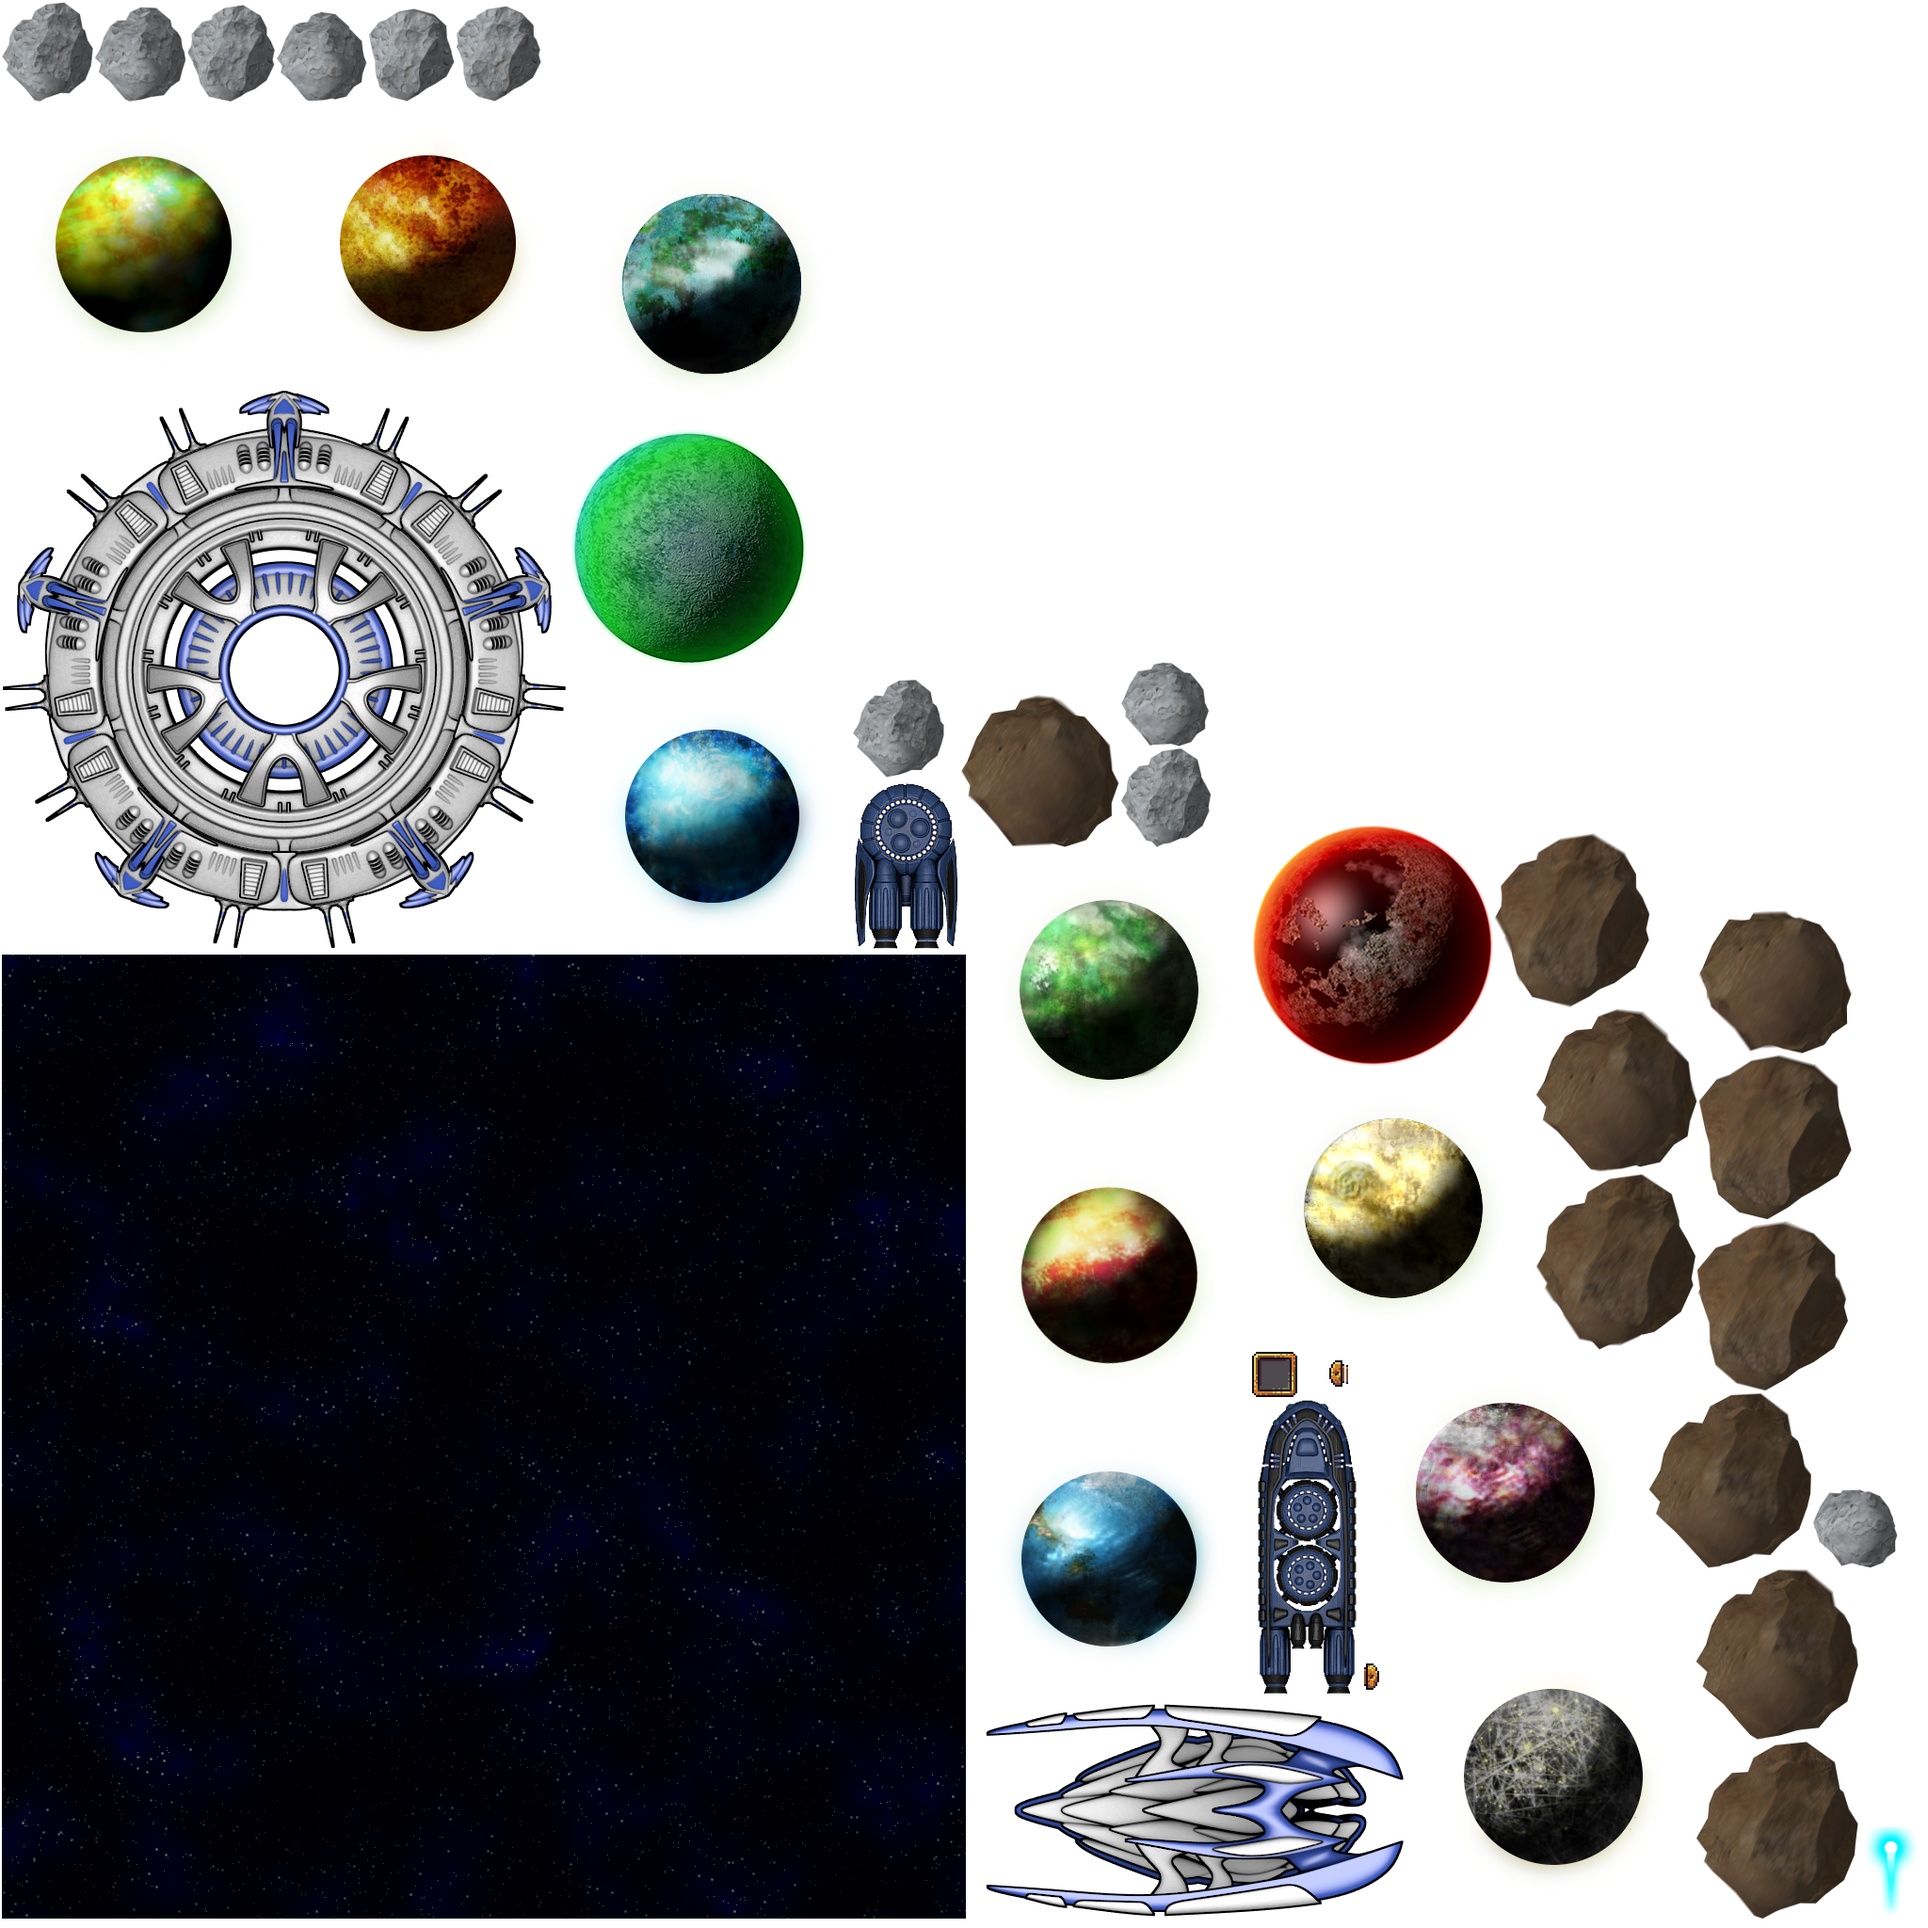
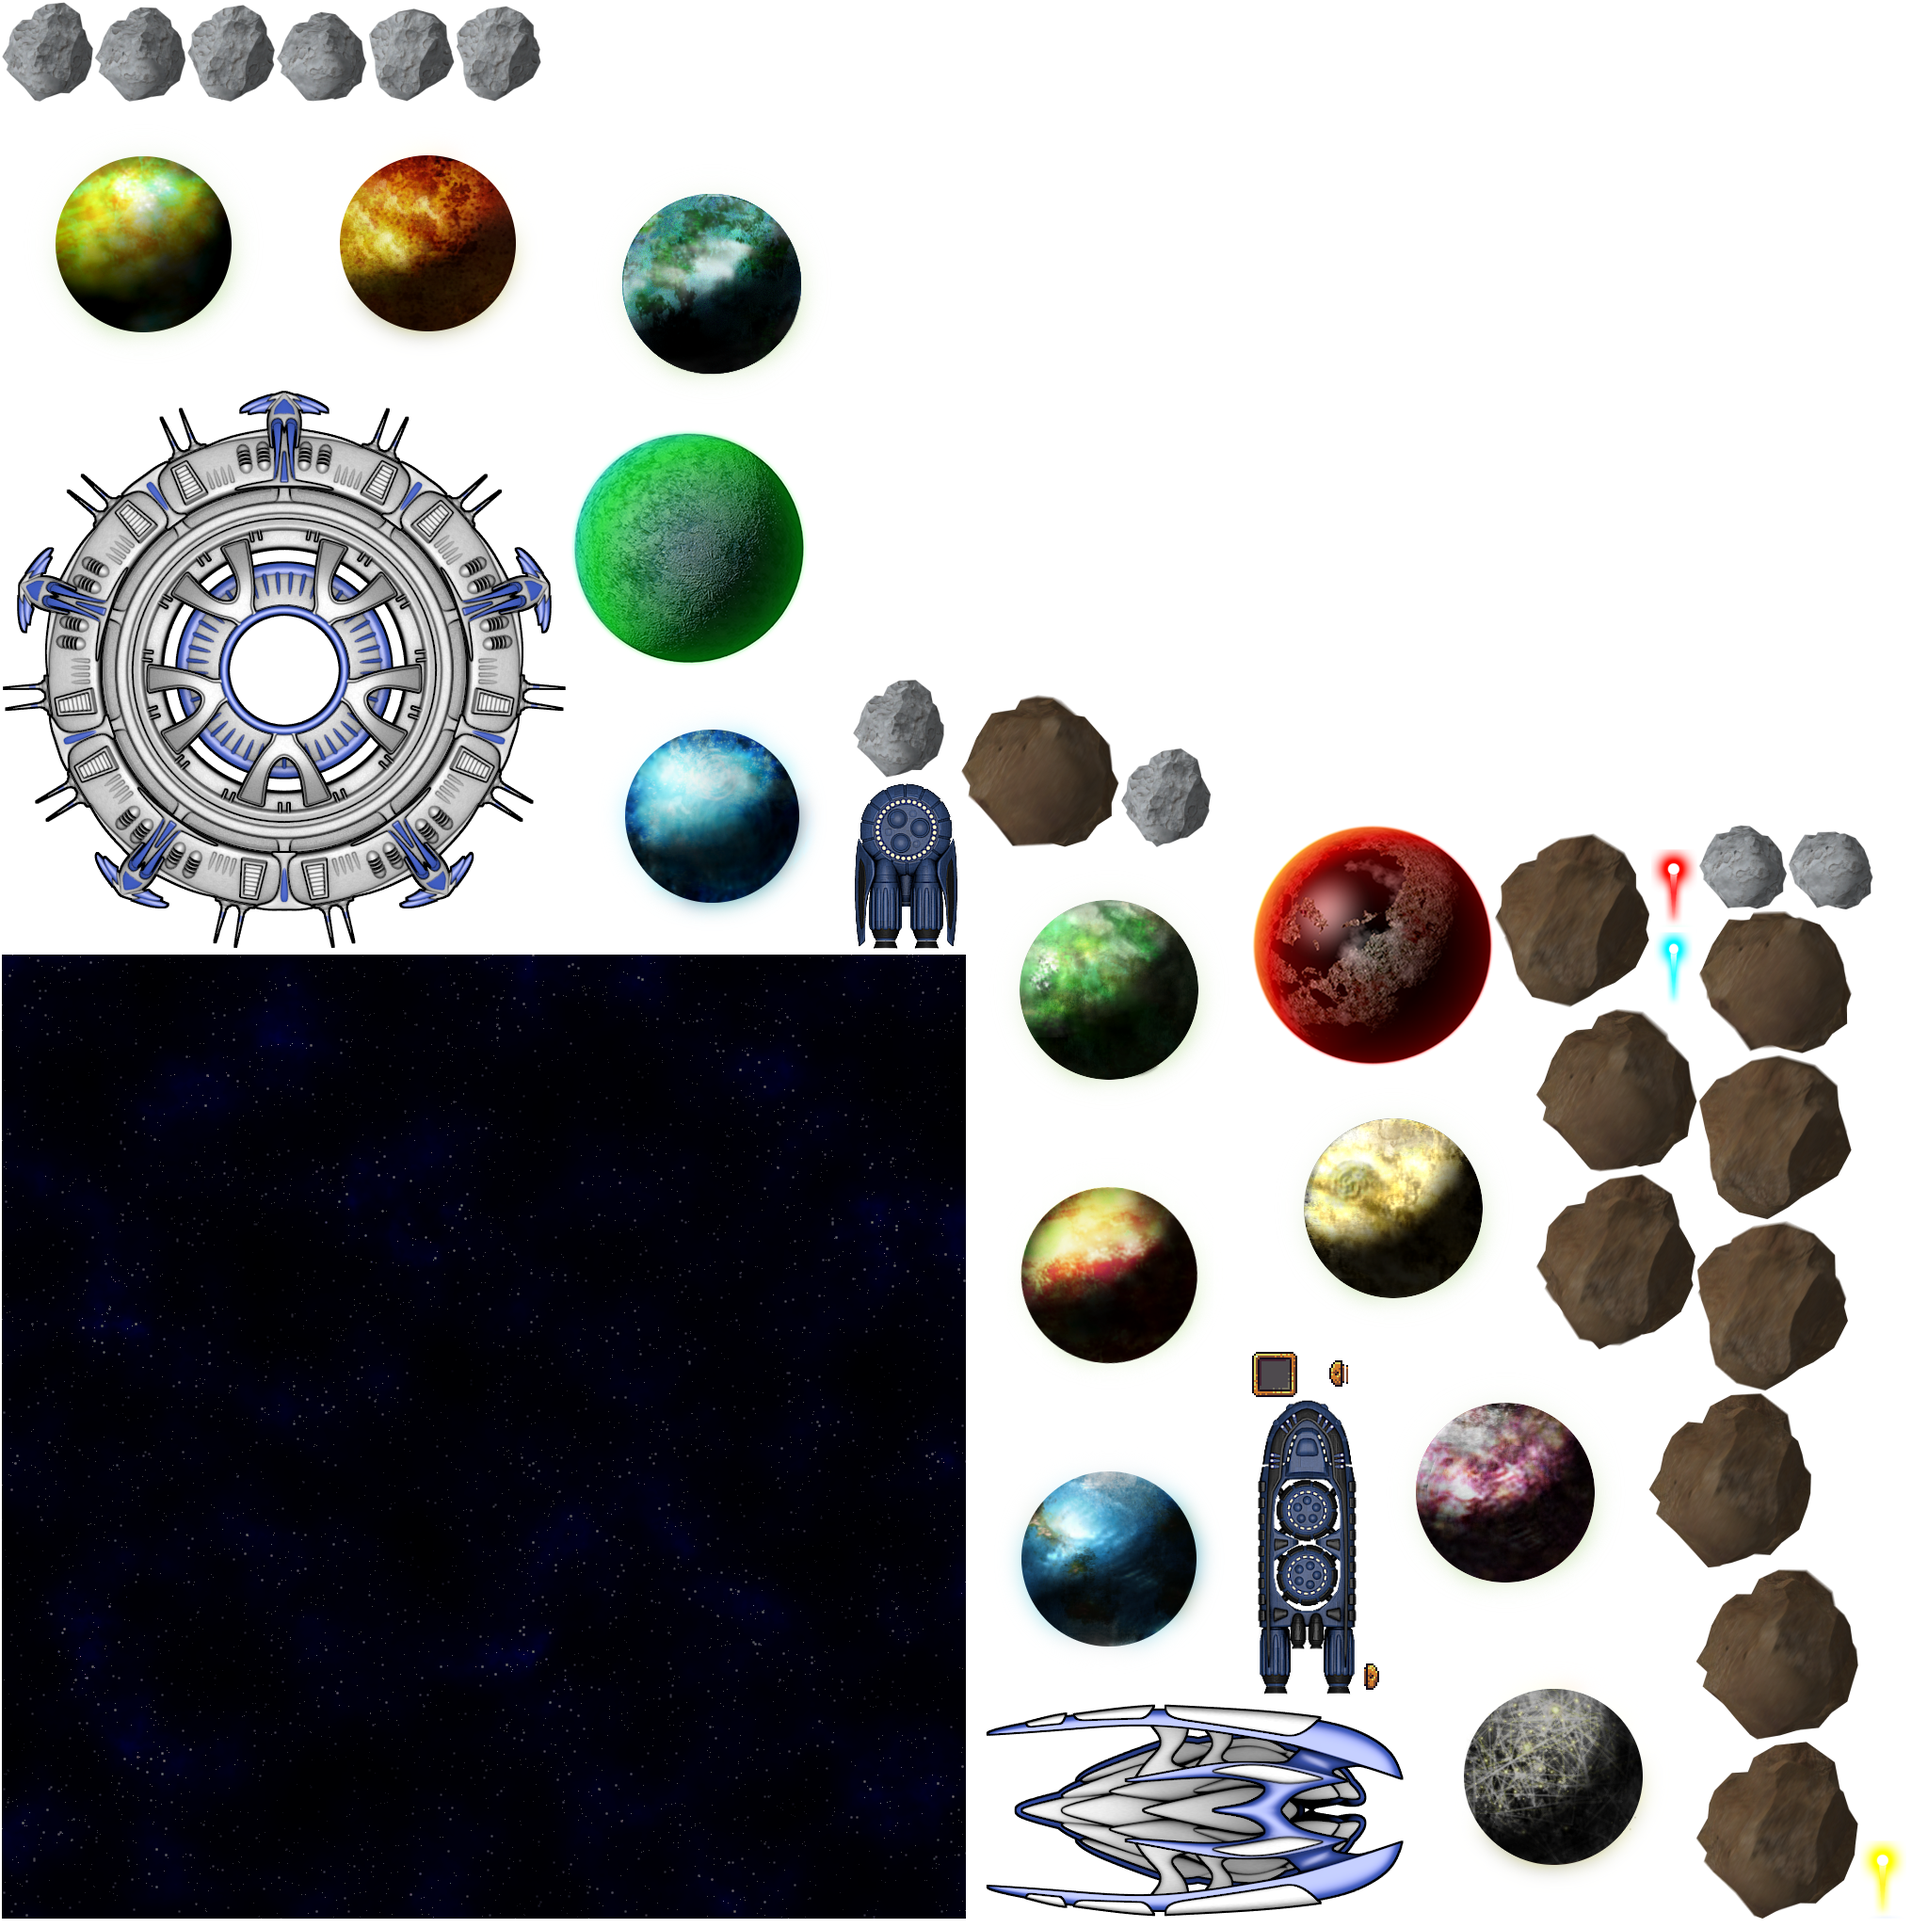
Now with more bullets

diff --git a/core/src/com/gdxjam/Assets.java b/core/src/com/gdxjam/Assets.java
@@ -111,10 +111,14 @@ public class Assets implements Disposable {
 
 	public static class AssetBullets {
 		public final AtlasRegion blue;
+		public final AtlasRegion red;
+		public final AtlasRegion yellow;
 		public final Array<AtlasRegion> bullets;
 
 		public AssetBullets(TextureAtlas atlas) {
 			blue = atlas.findRegion("bulletblue");
+			red = atlas.findRegion("bulletred");
+			yellow = atlas.findRegion("bulletyellow");
 			bullets = atlas.findRegions("bullet");
 		}
 	}
